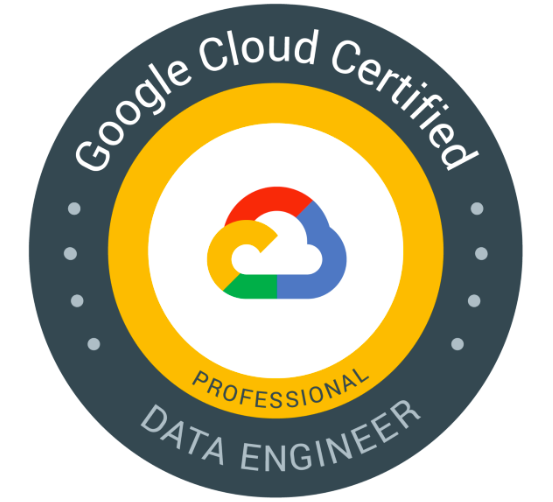
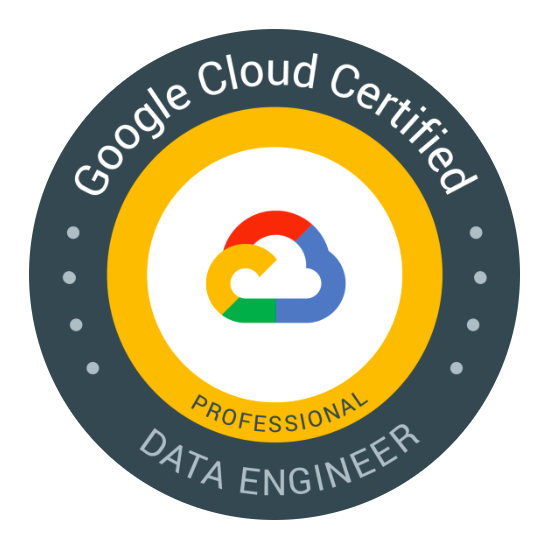
better gcp badge

diff --git a/_site/index.html b/_site/index.html
@@ -263,6 +263,8 @@
                     
                     <img src="/img/cert-badges/architect-pro-badge.png" style="max-width: 280px; padding-left: 30px; padding-top: 30px; padding-right: 30px">
                     
+                    <img src="/img/cert-badges/google-certified-data-engineer.png" style="max-width: 280px; padding-left: 30px; padding-top: 30px; padding-right: 30px">
+                    
                 </div>
             </div>
     </section>
